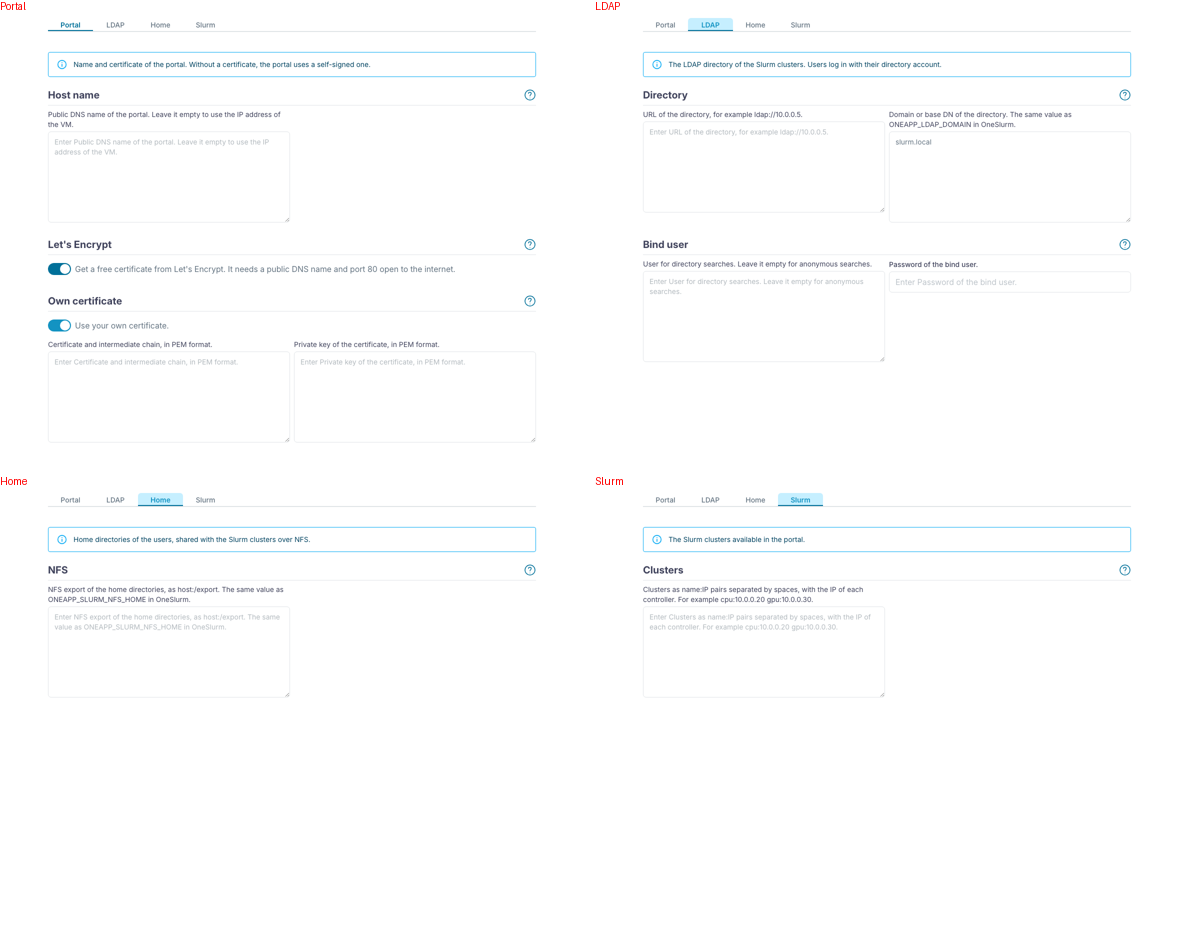
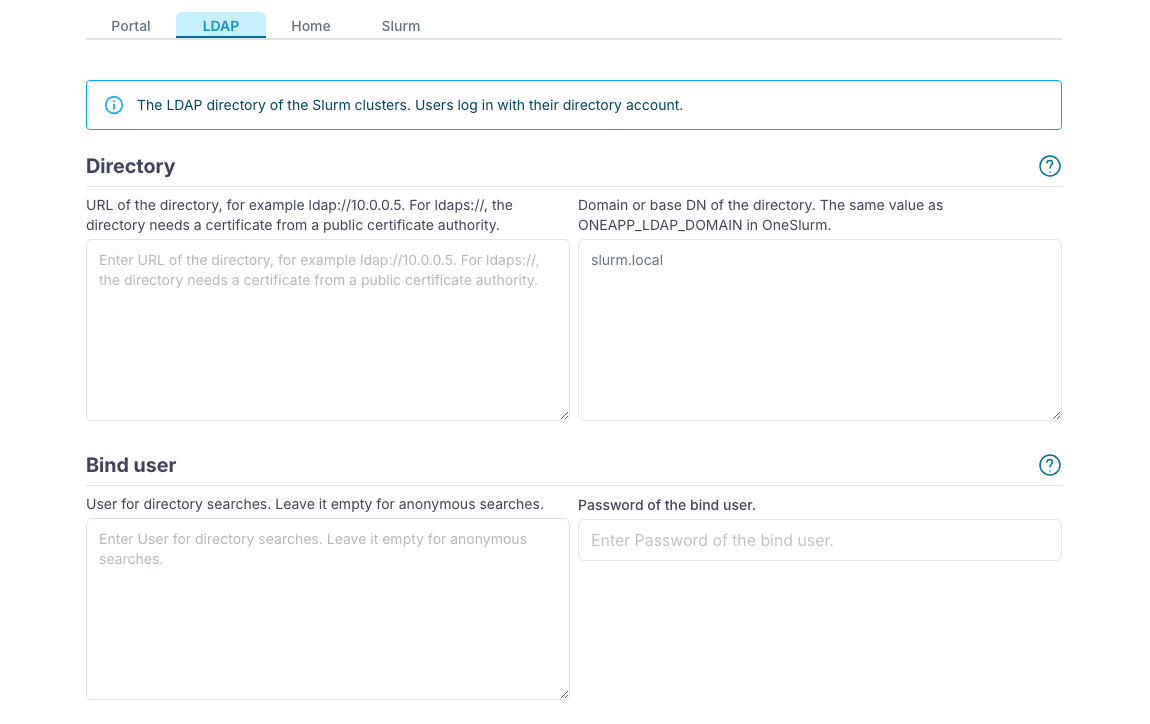
F #401: Use one clear wizard screenshot in the wiki draft

diff --git a/wiki-draft/ood_quick.md b/wiki-draft/ood_quick.md
@@ -25,7 +25,7 @@ This guide connects a portal to one OneSlurm cluster.
    | Home | NFS export | `10.0.0.2:/export/home` |
    | Slurm | Clusters | `cpu:<controller IP>` |
 
-   ![The four tabs of the wizard](images/ood-wizard.png)
+   ![The LDAP tab of the wizard](images/ood-wizard.png)
 
 3. Wait until the VM shows `READY=YES`. The attribute `OOD_URL` has the address of the portal. A wrong input stops the boot, and `OOD_ERROR` explains the problem.
 
